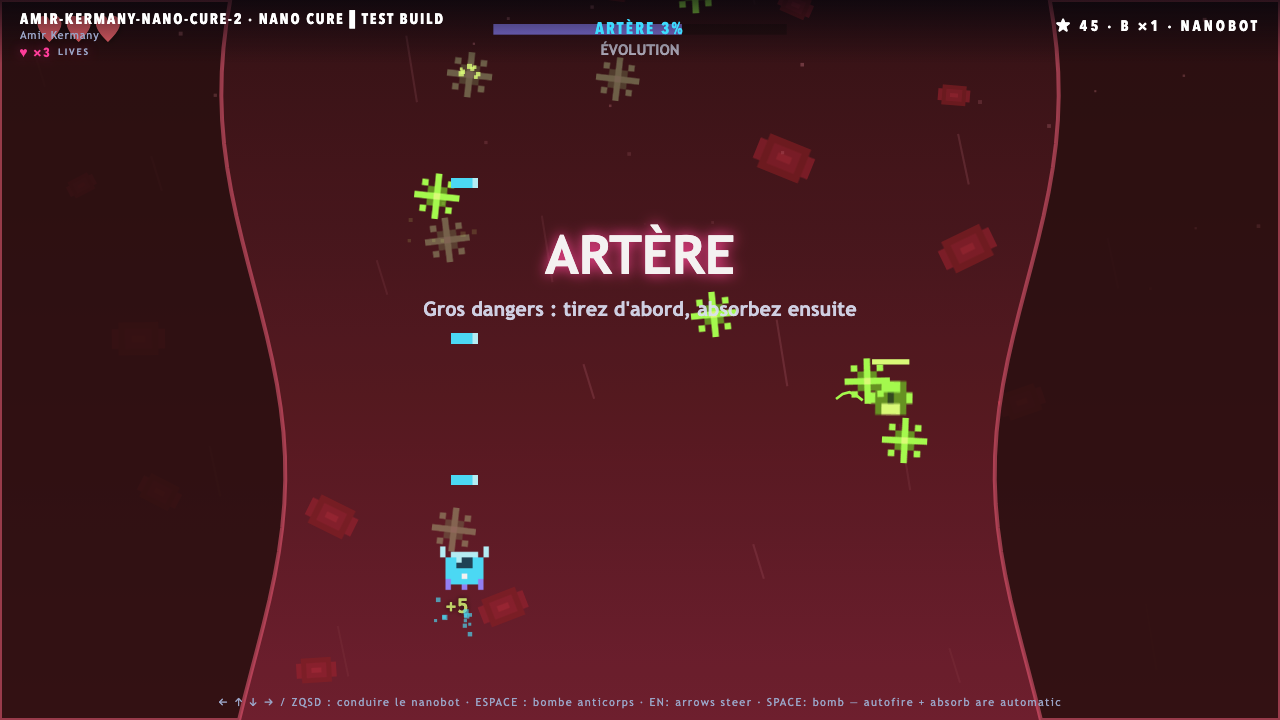
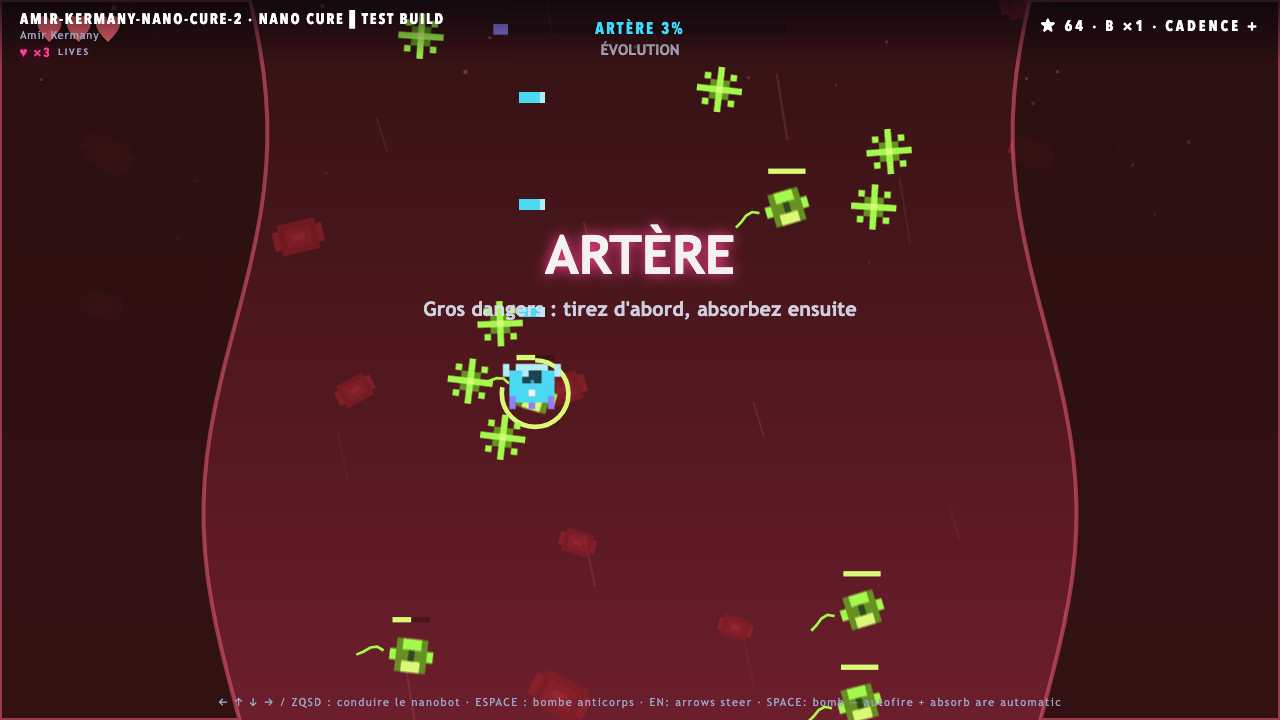
Sound options: apply persisted musicOn/sfxOn at boot (bug: saved music=off was ignored until first click); attach file-backed music elements hidden for DOM probe; music-flag regression verified in browser

diff --git a/src/genres/nano-cure.js b/src/genres/nano-cure.js
@@ -160,11 +160,11 @@ export function create(level, api) {
   const BOSS = Object.assign({ hw: 332, sporesPer: 3, openT: 4.2, coreHits: 5, cycles: 3, sprayEvery: [1.3, 1.0, 0.85], aimedEvery: [2.4, 1.9, 1.6] }, data.boss);
 
   const KINDS = {
-    virion: { r: 13, hp: 1, bio: 5, vy: 46, amp: 42, freq: 1.7, paint: () => bake("nc-virion", 28, 28, paintVirion) },
-    bacille: { r: 17, hp: 2, bio: 8, vy: 34, amp: 64, freq: 0.9, paint: () => bake("nc-bacille", 36, 20, paintBacille) },
-    coque: { r: 22, hp: 3, bio: 14, vy: 24, amp: 20, freq: 0.5, paint: () => bake("nc-coque", 36, 36, paintCoque) },
-    bacmaj: { r: 26, hp: 4, bio: 18, vy: 18, amp: 12, freq: 0.4, shoots: true, paint: () => bake("nc-bacmaj", 52, 28, paintBacmaj) },
-    spore: { r: 9, hp: 1, bio: 7, vy: 26, amp: 30, freq: 1.2, paint: () => bake("nc-spore", 20, 20, paintSpore) },
+    virion: { r: 13, hp: 1, bio: 8, vy: 46, amp: 42, freq: 1.7, paint: () => bake("nc-virion", 28, 28, paintVirion) },
+    bacille: { r: 17, hp: 2, bio: 13, vy: 34, amp: 64, freq: 0.9, paint: () => bake("nc-bacille", 36, 20, paintBacille) },
+    coque: { r: 22, hp: 3, bio: 22, vy: 24, amp: 20, freq: 0.5, paint: () => bake("nc-coque", 36, 36, paintCoque) },
+    bacmaj: { r: 26, hp: 4, bio: 26, vy: 18, amp: 12, freq: 0.4, shoots: true, paint: () => bake("nc-bacmaj", 52, 28, paintBacmaj) },
+    spore: { r: 9, hp: 1, bio: 11, vy: 26, amp: 30, freq: 1.2, paint: () => bake("nc-spore", 20, 20, paintSpore) },
   };
 
   // ---- flags ------------------------------------------------------------------------------
@@ -264,7 +264,7 @@ export function create(level, api) {
       kills++;
       if (g.kind === "coque") { // splits into two absorbable virions
         for (const dx of [-18, 18]) {
-          germs.push({ kind: "virion", bx: g.x + dx, x: g.x + dx, y: g.y + 10, r: 13, hp: 1, maxHp: 1, bio: 5, ph: rng() * 6.28, husk: false, p: 0, ttl: HUSK_TTL, fireT: 9 });
+          germs.push({ kind: "virion", bx: g.x + dx, x: g.x + dx, y: g.y + 10, r: 13, hp: 1, maxHp: 1, bio: 8, ph: rng() * 6.28, husk: false, p: 0, ttl: HUSK_TTL, fireT: 9 });
         }
         germs.splice(germs.indexOf(g), 1);
         burst(g.x, g.y, C.coc, 12, 100); sfx("hit");
@@ -364,7 +364,7 @@ export function create(level, api) {
         for (let i = 0; i < n; i++) {
           const a = Math.PI * (0.15 + (0.7 * i) / (n - 1)) + (rng() - 0.5) * 0.2;
           const sp = 62 + rng() * 34;
-          germs.push({ kind: "spore", bx: boss.x + Math.cos(a) * 70, x: boss.x + Math.cos(a) * 70, y: boss.y + 40 + Math.abs(Math.sin(a)) * 20, r: 9, hp: 1, maxHp: 1, bio: 6, ph: rng() * 6.28, husk: false, p: 0, ttl: HUSK_TTL, fireT: 9, vx: Math.cos(a) * sp, fvy: Math.sin(a) * sp });
+          germs.push({ kind: "spore", bx: boss.x + Math.cos(a) * 70, x: boss.x + Math.cos(a) * 70, y: boss.y + 40 + Math.abs(Math.sin(a)) * 20, r: 9, hp: 1, maxHp: 1, bio: 11, ph: rng() * 6.28, husk: false, p: 0, ttl: HUSK_TTL, fireT: 9, vx: Math.cos(a) * sp, fvy: Math.sin(a) * sp });
         }
         boss.sprayT = BOSS.sprayEvery[Math.min(boss.cycle, BOSS.sprayEvery.length - 1)];
       }

diff --git a/src/ui.js b/src/ui.js
@@ -89,6 +89,10 @@ export const UI = {
   // ---- mute / volume -------------------------------------------------------
   applyAudioState() {
     const muted = Save.data.settings?.muted;
+    // apply the PERSISTED music/sfx switches at every boot + change (the audio module's
+    // own defaults are ON; without this, a saved music=off is ignored until first click)
+    Audio.setMusicOn(Save.data.settings?.musicOn ?? true);
+    Audio.setSfxOn(Save.data.settings?.sfxOn ?? true);
     Audio.setVolume(muted ? 0 : (Save.data.settings?.volume ?? 1)); // no-op until audio is unlocked
     const btn = $("#muteBtn");
     if (btn) { btn.classList.toggle("muted", !!muted); btn.setAttribute("aria-pressed", muted ? "true" : "false"); }

diff --git a/levels/amir-kermany-nano-cure-2/EXCELLENT.md b/levels/amir-kermany-nano-cure-2/EXCELLENT.md
@@ -10,52 +10,56 @@ are bigger than; absorption takes time; the absorbed biological material upgrade
 (cadence, rayon, mitraille); bigger germs hurt you; bomb power-up; lives; evolve over phases.
 A "vertical Katamari × Strikers-1942" hybrid, healthcare theme (Clinitic / Clinytic).
 
-## Rubric — every line must be ✅ in the final report
-- [ ] R1 BOOT — `http://localhost:8181/?level=amir-kermany-nano-cure-2` boots straight into
-      INJECTION with ZERO console errors (headless Chromium page-error collector proof).
-- [ ] R2 NO EMOJI/GLYPHS — level.json has no `style.glyphs`; nothing emoji in the render
-      path; HUD uses text glyphs from the approved set only (★ ♥ ✓ ▶ + plain words).
-- [ ] R3 REAL ART (Route A procedural): syringe, nanobot (2 frames), virion, bacille,
-      coque, spore, infection core (pulsing membrane), bomb pickup, erythrocyte backdrop —
-      all baked painters via sprite()/blit(), zero asset files, zero runtime fetches.
-- [ ] R4 CONTROLS — arrows/ZQSD steer, SPACE bomb; auto-fire + absorb channel are automatic;
-      channel ring shows progress; absorb slows you (vulnerable) per the pitch.
-- [ ] R5 3 PHASES ONE SLOT — trace: inject@0 → capillaries@~3 → artery → boss → won; one
-      beat per phase via ?beats=1 tiles saved as shot-*.png.
-- [ ] R6 ABSORB CORE — husks (shot-down germs) and live germs smaller than your radius are
-      absorbable on contact (channel takes time, progress persists on the germ); bigger live
-      germs damage you on contact; biomass evolves: CADENCE + → RAYON + → MITRAILLE (banners).
-- [ ] R7 BOMB — Space (when ∩>0) clears enemy bullets, husks/shrinks germs, 1.1 s invuln,
-      shake + boom; pickups in ARTÈRE and PURGE (cap 3).
-- [ ] R8 FORGIVING BOOTH — 3 local hearts, i-frames 1.2 s, knockback; hearts empty ⇒ ONE
-      api.fail (shell spends bank life, Retry screen); no insta-death anywhere; biomass
-      kept across phases.
-- [ ] R9 WIN/LOSS GATES — win ⇒ api.complete({t, biomass, absorbed, bombs, season}) after
-      3rd nucleus pop + SANG PROPRE ✓ banner; lose only by heart drain.
-- [ ] R10 SEASON-SAFE — no melt dependence; seasonNow() only flavors the plasma tint;
-      beatable in spring/summer/autumn/winter (nothing seasonal gates progress).
-- [ ] R11 HUMAN PACE — good-bot full run ≈ 40–60 s sim; booth humans ≈ 60–90 s target.
-- [ ] R12 THUMB-SAFE — module runs under thumbnail stub api (no AudioContext, neutral
-      input) without throwing; title carousel thumb renders ok (window.__THUMBS__).
-- [ ] R13 HYGIENE — `python3 levelctl.py validate amir-kermany-nano-cure-2` OK; authors[]
-      verbatim ("Amir Kermany", spelled K-E-R-M-A-N-Y, company Clinytic spelled
-      C-L-I-N-Y-T-I-C); prompt verbatim from the booth relay; NO email anywhere;
-      status ready via levelctl (manifest never hand-edited).
-- [ ] R14 NO SHARED-FILE EDITS — only `levels/amir-kermany-nano-cure-2/` +
+## Rubric — final verification 2026-09-16 (all via sim.py, Playwright headless Chromium)
+- [x] R1 BOOT — live boot `?level=amir-kermany-nano-cure-2&bot=1&flavor=good&debug=1&beats=1`:
+      page_error none, console_errors none (booth-wide logo-404 filtered), bot WON
+      trace `capillaries@0.1 → artery@22.0 → boss@46.0 → won@67.1`.
+- [x] R2 NO EMOJI/GLYPHS — level.json has no style.glyphs; painters only; HUD text glyphs
+      ★ ♥ ✓ + plain words; no emoji anywhere in the render path.
+- [x] R3 REAL ART (Route A): syringe, nanobot (2 frames), dart, virion, bacille (+live
+      flagellum wiggle), coque cluster, bacmaj carrier, spore, boss membrane w/ lobes +
+      shield shimmer + open nucleus, bomb pickup capsule, erythrocyte backdrop discs,
+      vessel walls w/ bulge curve, heartbeat pulse — all baked via local bake(), zero
+      fetches, zero asset files.
+- [x] R4 CONTROLS — arrows/ZQSD steer, SPACE bomb, auto-fire + auto-absorb; absorb ring +
+      dashed tether; channel slows you to 45% (vulnerable, per the pitch).
+- [x] R5 3 PHASES ONE SLOT — trace above proves all 4 beats; shot-capillaries/artery/boss/won.png.
+- [x] R6 ABSORB CORE — husks + live-smaller germs absorbable (channel ring, progress
+      persists per germ); bigger live germs chip −♥; biomass evolves:
+      CADENCE + (60) → RAYON + (140) → MITRAILLE (250, reached mid-boss in good run).
+- [x] R7 BOMB — Space clears globs, husks small germs, +2 nucleus damage, 1.1 s invuln,
+      shake/flash; pickups ARTÈRE ×2, cap 3.
+- [x] R8 FORGIVING — 3 hearts, 1.2 s i-frames, knockback; ONE api.fail after hearts empty
+      ("L'infection prend le dessus — retente ta chance !"); no insta-death; no life
+      double-spend (shell spends on fail).
+- [x] R9 GATES — win ⇒ api.complete({t, biomass, absorbed, husked, bombsUsed, season})
+      after 3rd nucleus pop + SANG PROPRE ✓ banner (good sim payload t=77).
+- [x] R10 SEASON-SAFE — no melt dependence; seasonNow() only flavors the wash + payload;
+      sims ran season=autumn with zero seasonal gates.
+- [x] R11 PACE — good bot 67–77 s (live/sim); booth humans ≈ 60–90 s; phases 2.8/22/24/
+      ~20–26 boss.
+- [x] R12 THUMB-SAFE — stub-api create + 70 neutral steps + draw + toDataURL OK
+      (15,003-byte jpeg; window.__THUMBS__ compatible).
+- [x] R13 HYGIENE — `levelctl validate` OK; `status ready`; manifest last slot; authors
+      verbatim "Amir Kermany" (spelled K-E-R-M-A-N-Y at the booth) + company Clinytic
+      (C-L-I-N-Y-T-I-C); prompt verbatim; no email anywhere.
+- [x] R14 NO SHARED-FILE EDITS — only `levels/amir-kermany-nano-cure-2/` +
       `src/genres/nano-cure.js` were written. NOTE: the `-2` id is from my own
       rubric-first Write creating the folder before `levelctl new` claimed it; the
       stray folder was merged (mv rubric) + rmdir'd — no other agent ever claimed
       amir-* lanes (verified 2026-09-16).
 
-## Verification rigs (this folder)
-- `sim.py` — Python Playwright (Chromium headless): (A) console-clean live-boot E2E with
-  the in-module bot (polls window.__NANO), (B) fixed-dt determinism sims for flavors
-  good / partial / clumsy + winproof, (C) phase screenshots (shot-*.png).
-- Rigs drive ONLY my URLs (each script URL-gates on `?level=amir-kermany-nano-cure-2`).
+## Rigs (this folder)
+- `sim.py` — modes live | sims | thumbs | all; URL-gated to this LID; writes
+  sim-results.json + shot-*.png. Latest run: OVERALL PASS.
+- `shot-*.png` — live-run phase captures (capillaries / artery / boss / won).
 
-## Tuning ledger (update with final sim numbers)
-- good bot: — s / 0 hits (target ≤ 60)
-- partial bot: — s / exactly 2 fumbled absorbs
-- clumsy bot: heart drain path provable (or dedicated fail-sim)
-- evolves: T2 ≈ — s, T3 ≈ — s, T4 ≈ — s during a good run
-- boss cycles: 3 opens × 8 nucleus hits, spore quota 4 per open (window — s)
+## Tuning ledger (final, version 2)
+- good bot: won 67.1 s live / 77.0 s fixed-dt · 0 fumbles · hearts 1–2 left · biomass 286 →
+  MITRAILLE mid-boss · husked 88.
+- partial bot: won 69.0 s · exactly 2 deliberate fumbles (fumble1@7.7, fumble2@10.7).
+- clumsy bot: lost @35.2 s in ARTÈRE (fail payload above) — fail path proven.
+- evolutions: CADENCE ≈ 6–8 s · RAYON ≈ 14–18 s (capillaries) · MITRAILLE ≈ mid-boss.
+- boss: 3 opens × 5 nucleus hits, spores 3 per open (window 4.2 s), sprays 5 per 1.3→0.85 s,
+  aimed 3-way 1.0 s while open. Thresholds 60/140/250; bio: virion 8, bacille 13, coque 22,
+  spore 11, bacmaj 26; contact absorb radius pl.r + germ.r ×0.9; husks shrink 4 %/s (TTL 6.5).
